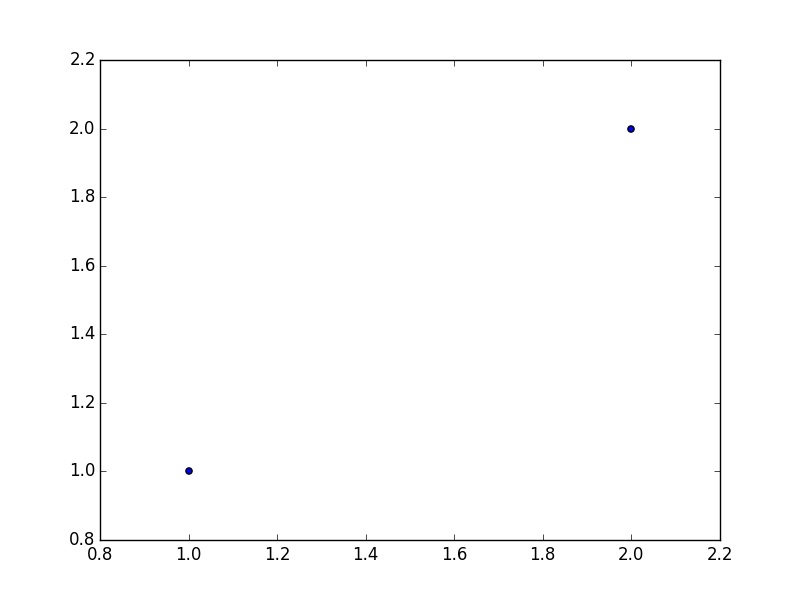
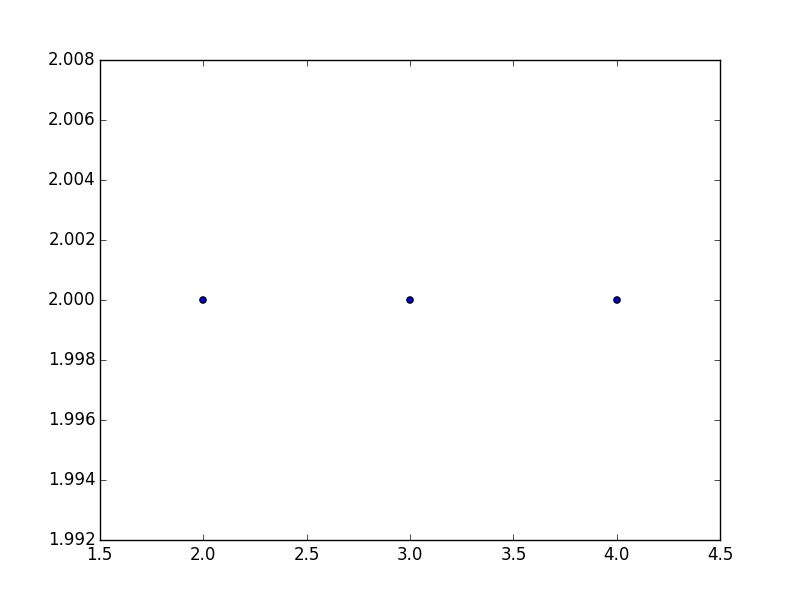
archivo para ver en ubuntu

diff --git a/ev3/gra/gd.py b/ev3/gra/gd.py
@@ -3,10 +3,17 @@ matplotlib.use('Agg')
 import matplotlib.pyplot as pl
 import numpy as np
 
-ax = pl.gca()
-n = 10 ##1024
-x = np.random.normal(n) ##(0,1,n)
-y = np.random.normal(n) ##(0,1,n)
+a = input ('escribe un numero: ')
+b = input ('escribe otro numero: ')
 
-pl.scatter(x,y)
-pl.savefig('gd.jpg')
+for a in [a,3,4]:
+
+	print (a,b)
+	ax = pl.gca()
+	n = 10 ##1024
+	x = (a) #np.random.normal() ##(0,1,n)
+	y = (b) #np.random.normal() ##(0,1,n)
+	#b = b + 1
+	pl.scatter(x,y)
+	pl.show()
+	pl.savefig('gd.jpg')
